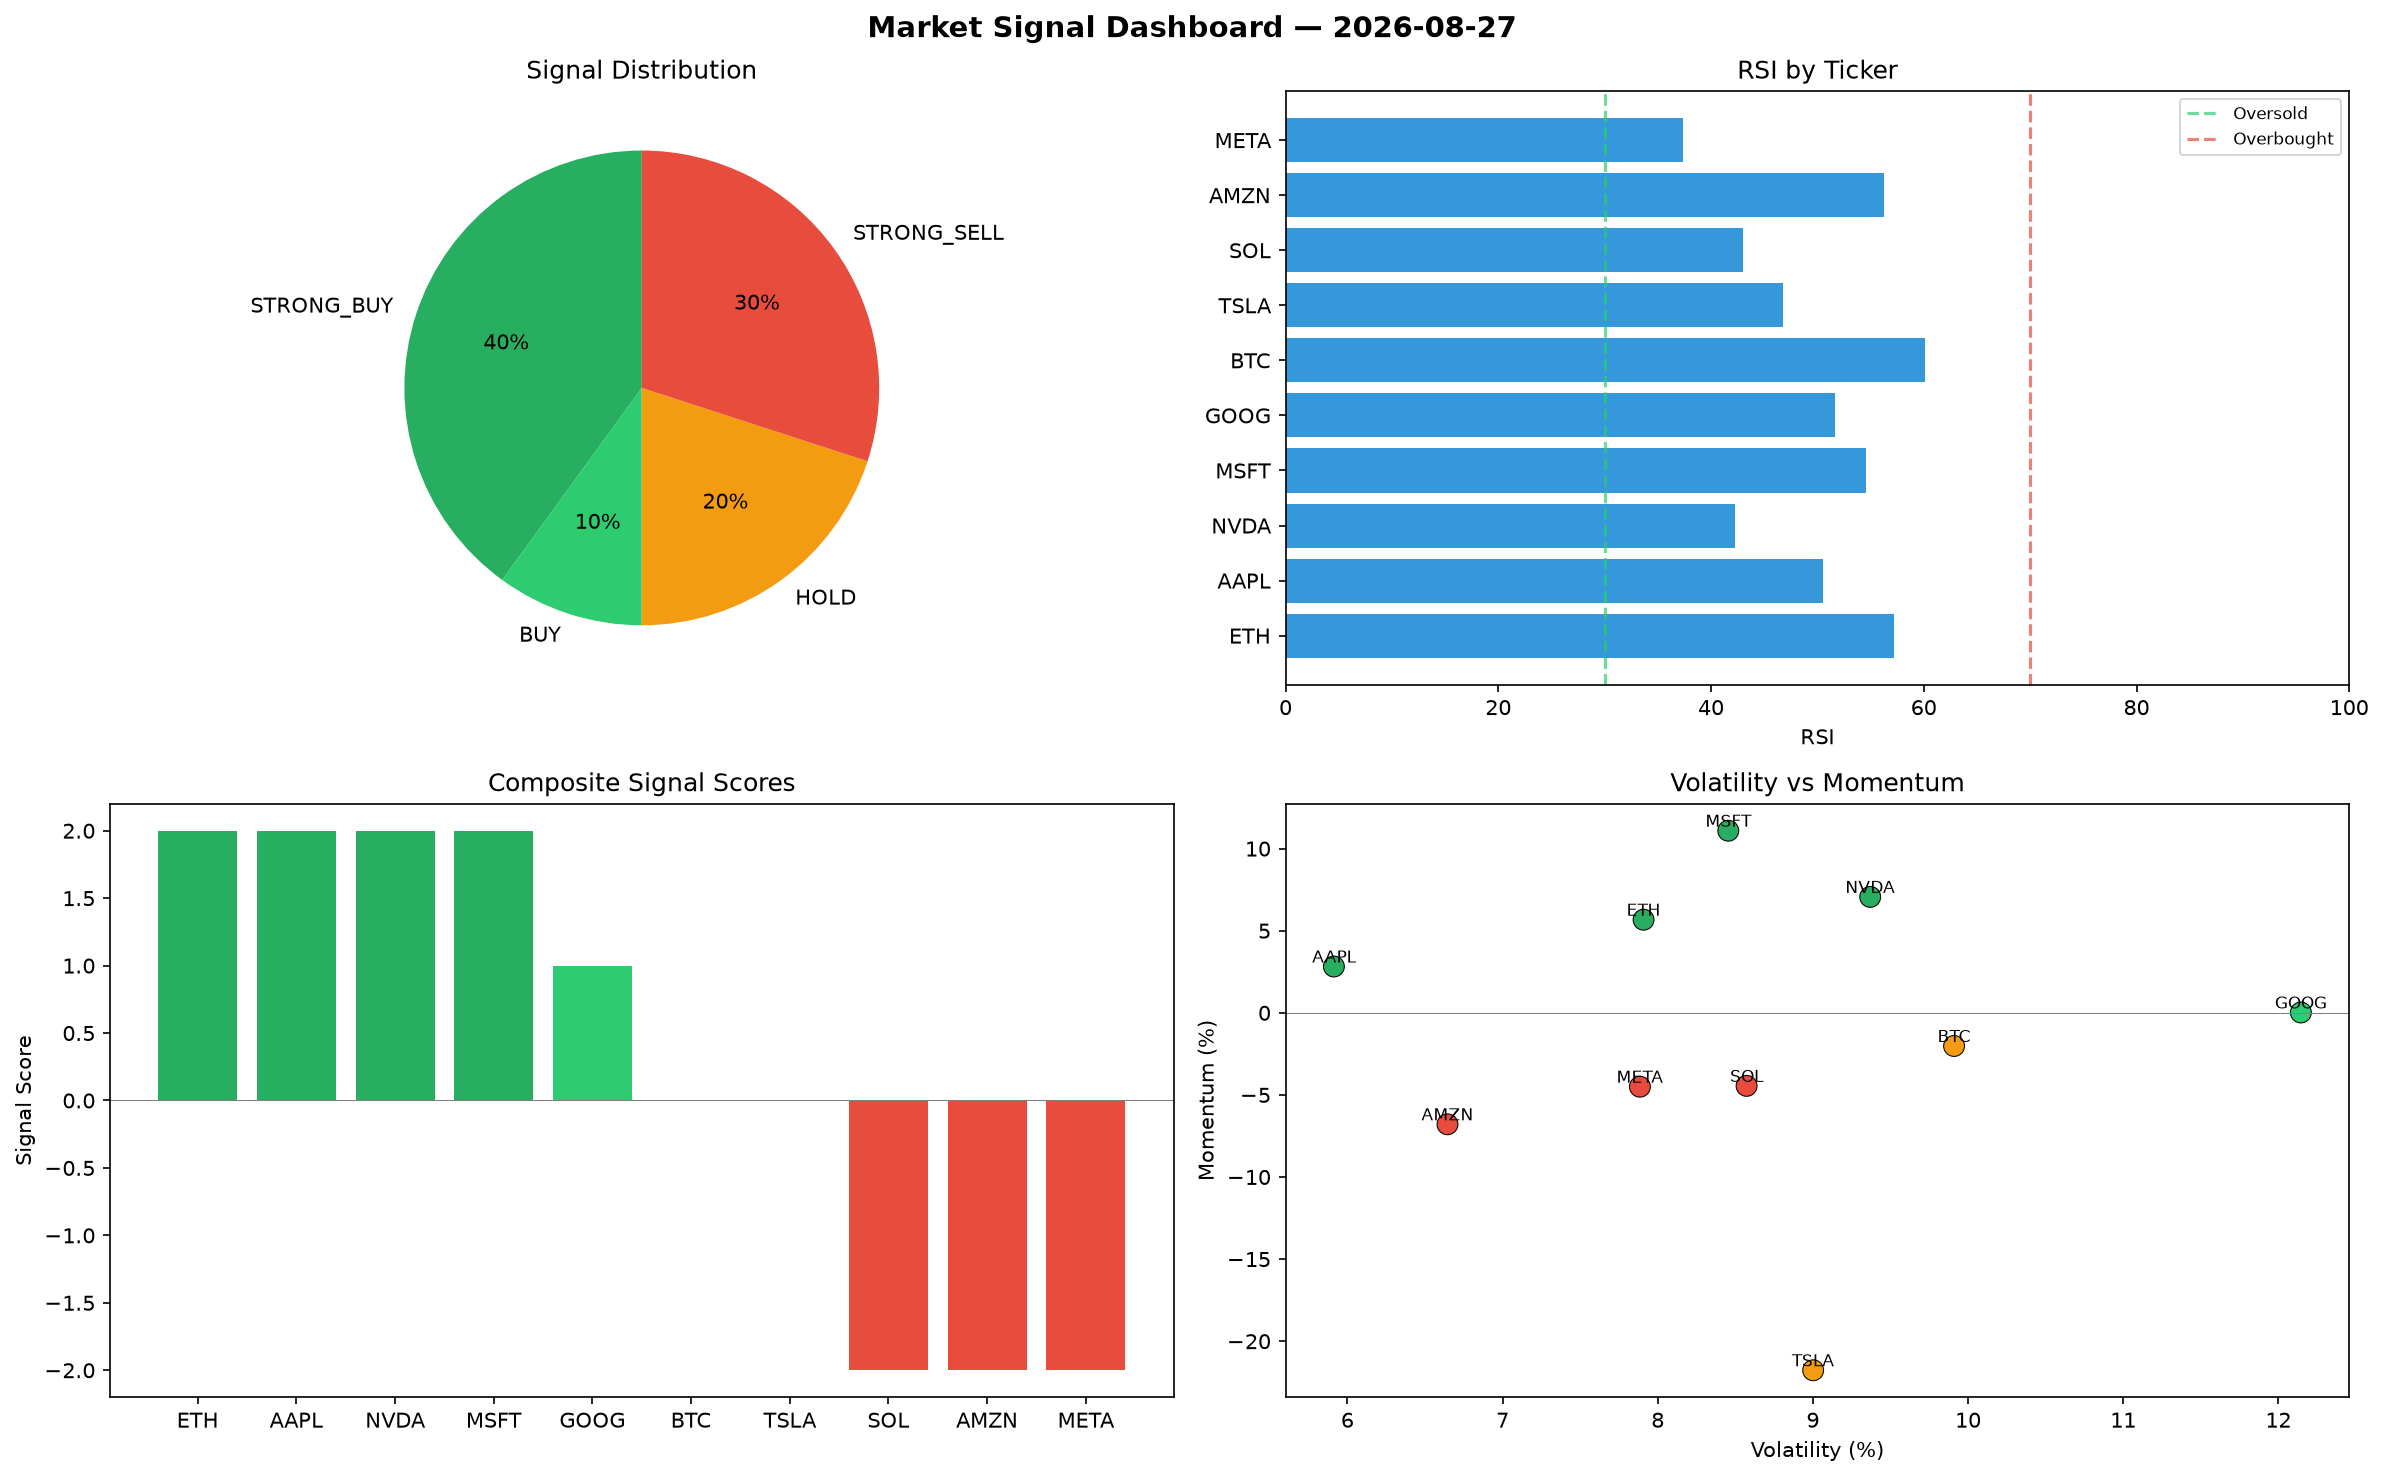
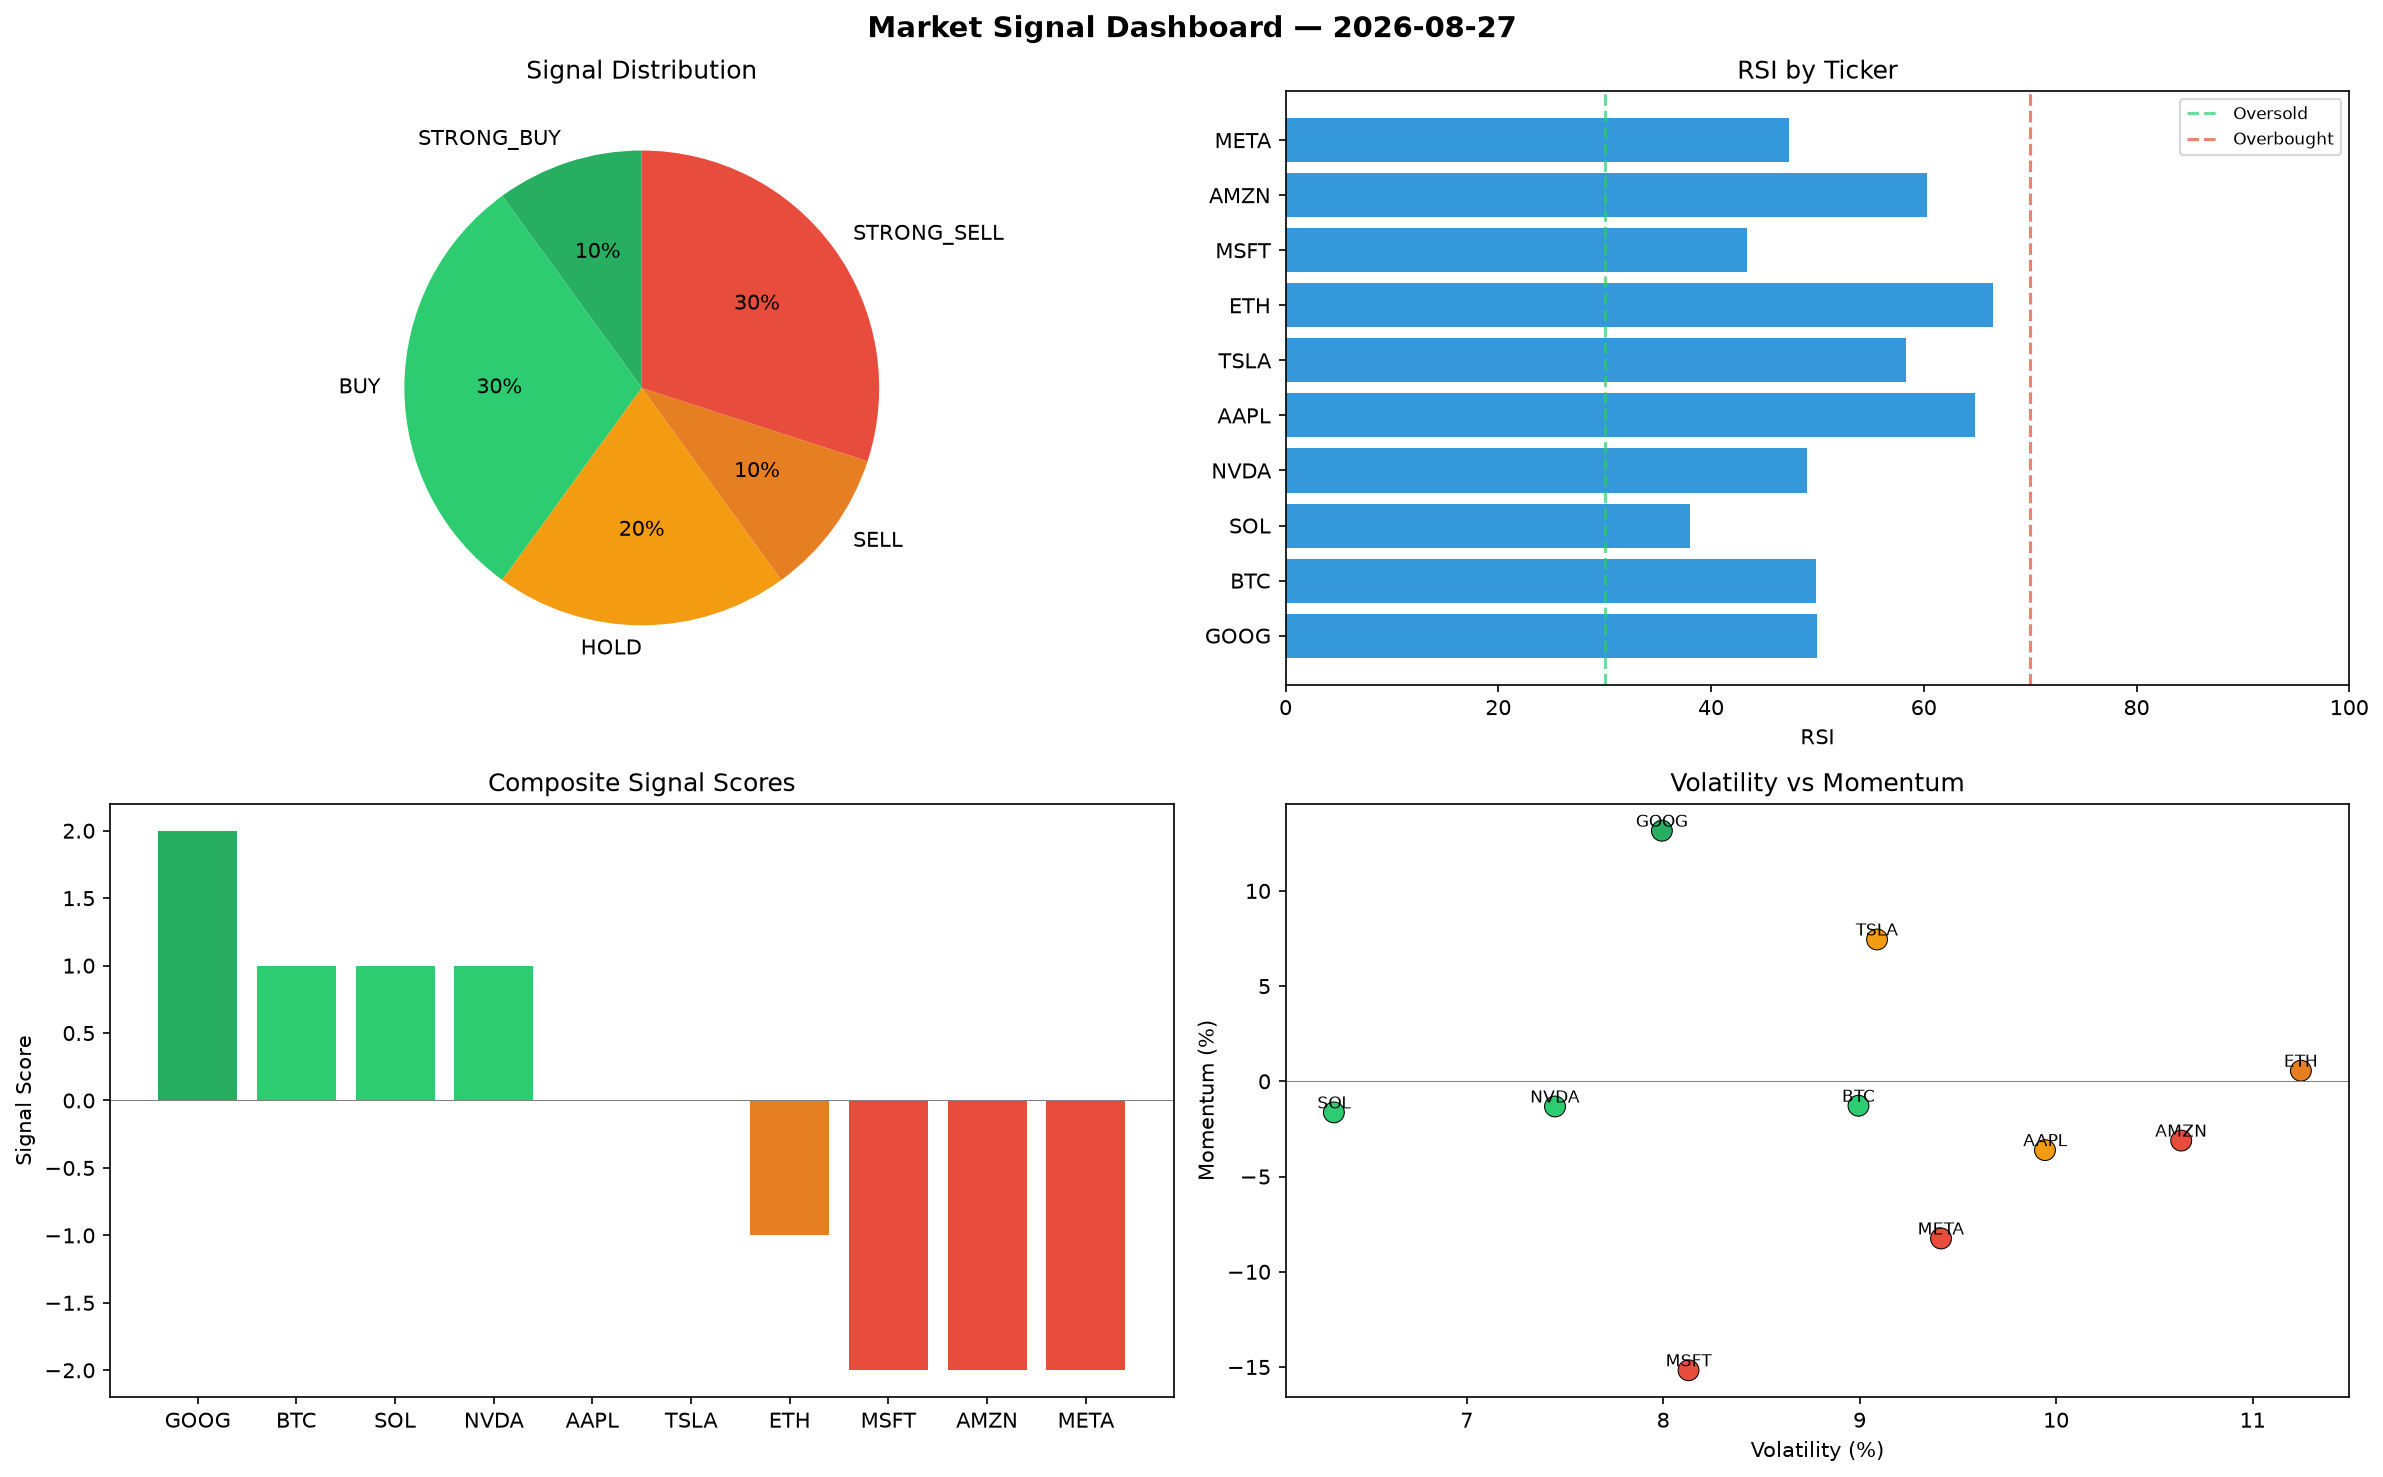
automated-bots: market signals 2026-08-27T19:10

diff --git a/logs/2026-08-27.md b/logs/2026-08-27.md
@@ -1,6 +1,6 @@
 # Market Signal Report — 2026-08-27
 
-**Run ID:** `ebb436029d` | **Buy:** 5 | **Sell:** 3 | **Hold:** 2
+**Run ID:** `5caeecc515` | **Buy:** 4 | **Sell:** 4 | **Hold:** 2
 
 ![Dashboard](2026-08-27_dashboard.png)
 
@@ -8,28 +8,28 @@
 
 | Ticker | Price | Signal | Score | RSI | Momentum | Confidence |
 |--------|-------|--------|-------|-----|----------|------------|
-| ETH | $4350.86 | **STRONG_BUY** | 2 | 57.23 | 0.0567 | 0.5 |
-| AAPL | $1629.06 | **STRONG_BUY** | 2 | 50.48 | 0.0282 | 0.5 |
-| NVDA | $2749.58 | **STRONG_BUY** | 2 | 42.3 | 0.0706 | 0.5 |
-| MSFT | $4786.75 | **STRONG_BUY** | 2 | 54.6 | 0.1109 | 0.5 |
-| GOOG | $1394.73 | **BUY** | 1 | 51.7 | 0.0002 | 0.25 |
-| BTC | $187.77 | **HOLD** | 0 | 60.11 | -0.0202 | 0.0 |
-| TSLA | $1263.11 | **HOLD** | 0 | 46.75 | -0.2177 | 0.0 |
-| SOL | $1981.06 | **STRONG_SELL** | -2 | 43.05 | -0.0445 | 0.5 |
-| AMZN | $3916.99 | **STRONG_SELL** | -2 | 56.26 | -0.0679 | 0.5 |
-| META | $2618.84 | **STRONG_SELL** | -2 | 37.36 | -0.045 | 0.5 |
+| GOOG | $4711.93 | **STRONG_BUY** | 2 | 49.96 | 0.1316 | 0.5 |
+| BTC | $614.84 | **BUY** | 1 | 49.85 | -0.0128 | 0.25 |
+| SOL | $1161.27 | **BUY** | 1 | 37.99 | -0.0163 | 0.25 |
+| NVDA | $1629.7 | **BUY** | 1 | 49.05 | -0.0132 | 0.25 |
+| AAPL | $1934.99 | **HOLD** | 0 | 64.79 | -0.0361 | 0.0 |
+| TSLA | $812.79 | **HOLD** | 0 | 58.32 | 0.0745 | 0.0 |
+| ETH | $952.59 | **SELL** | -1 | 66.47 | 0.0056 | 0.25 |
+| MSFT | $3206.57 | **STRONG_SELL** | -2 | 43.41 | -0.1517 | 0.5 |
+| AMZN | $52.02 | **STRONG_SELL** | -2 | 60.28 | -0.0311 | 0.5 |
+| META | $3610.32 | **STRONG_SELL** | -2 | 47.32 | -0.0825 | 0.5 |
 
 ## Delta vs Yesterday
 
 | Ticker | Today | Yesterday | Price Change | Signal Changed |
 |--------|-------|-----------|-------------|----------------|
-| ETH | STRONG_BUY | STRONG_BUY | 📉 -8.13% | — |
-| AAPL | STRONG_BUY | HOLD | 📈 181.39% | ⚠ YES |
-| NVDA | STRONG_BUY | HOLD | 📉 -13.31% | ⚠ YES |
-| MSFT | STRONG_BUY | HOLD | 📈 47.12% | ⚠ YES |
-| GOOG | BUY | HOLD | 📉 -12.59% | ⚠ YES |
-| BTC | HOLD | STRONG_BUY | 📉 -88.64% | ⚠ YES |
-| TSLA | HOLD | SELL | 📉 -70.38% | ⚠ YES |
-| SOL | STRONG_SELL | STRONG_BUY | 📈 1.64% | ⚠ YES |
-| AMZN | STRONG_SELL | HOLD | 📈 5.56% | ⚠ YES |
-| META | STRONG_SELL | STRONG_SELL | 📉 -41.57% | — |
+| GOOG | STRONG_BUY | HOLD | 📈 195.3% | ⚠ YES |
+| BTC | BUY | STRONG_BUY | 📉 -62.81% | ⚠ YES |
+| SOL | BUY | STRONG_BUY | 📉 -40.42% | ⚠ YES |
+| NVDA | BUY | HOLD | 📉 -48.62% | ⚠ YES |
+| AAPL | HOLD | HOLD | 📈 234.23% | — |
+| TSLA | HOLD | SELL | 📉 -80.94% | ⚠ YES |
+| ETH | SELL | STRONG_BUY | 📉 -79.89% | ⚠ YES |
+| MSFT | STRONG_SELL | HOLD | 📉 -1.45% | ⚠ YES |
+| AMZN | STRONG_SELL | HOLD | 📉 -98.6% | ⚠ YES |
+| META | STRONG_SELL | STRONG_SELL | 📉 -19.45% | — |
